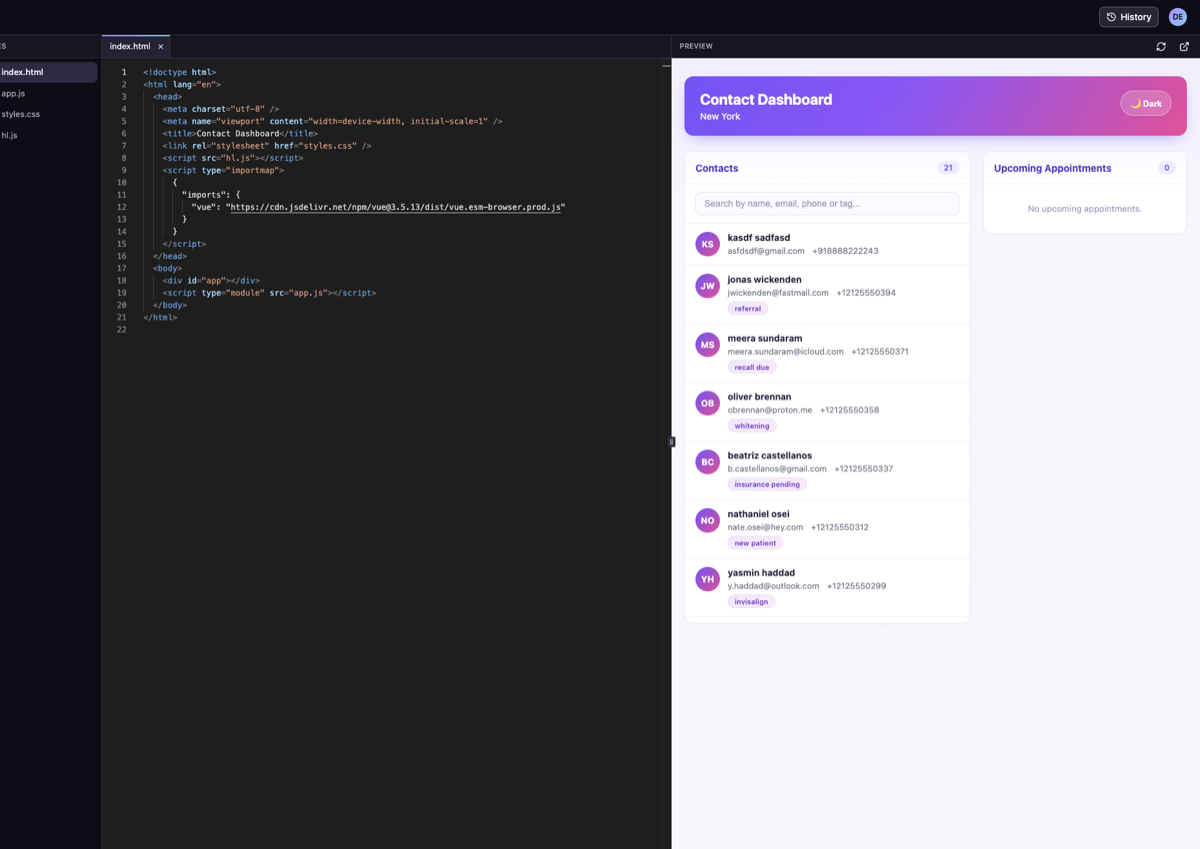
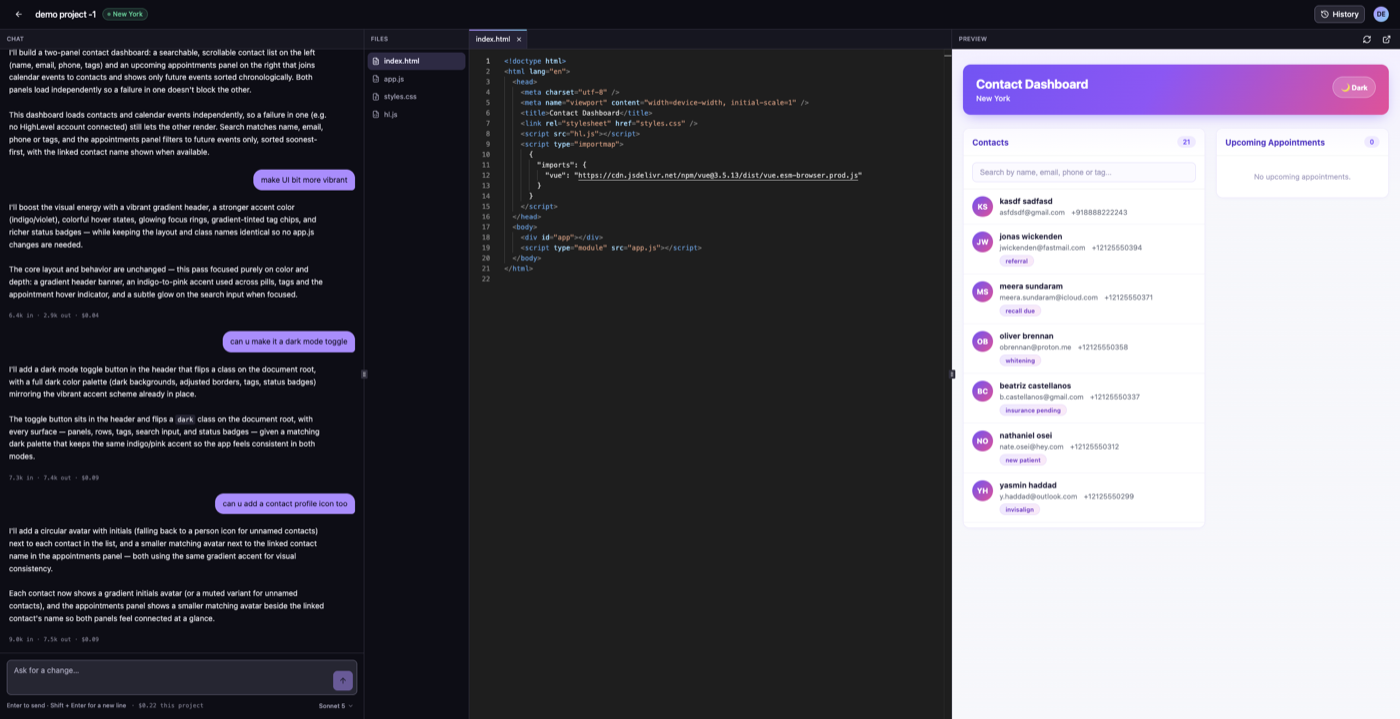
Show the Genesis screenshot uncropped
object-cover fills the media column by cropping whatever does not fit,
which on a 1.9:1 IDE screenshot in a narrow column meant losing the
live preview panel — the part that proves the generated app runs on
real data. Shrinking the copy helped but could not fix the mismatch.

Added Project.mediaFit. "contain" opts a card out of cropping and
stacks the image full-bleed above the copy, so the frame gets the whole
1180px card width instead of 46% of it; the chat, editor and preview
are all legible. The badge moves to the bottom on stacked cards to keep
the app's own title bar readable. Cards without the field are untouched
and still crop to fill.

diff --git a/src/components/Operations.tsx b/src/components/Operations.tsx
@@ -96,27 +96,45 @@ function FeatureCard({ p }: { p: Project }) {
 }
 
 function MediaCard({ p }: { p: Project }) {
+  // "contain" screenshots must not be cropped, so they get the full card width
+  // stacked above the copy rather than a narrow side column that letterboxes them.
+  const stacked = p.mediaFit === "contain";
+
   return (
     <article
       onMouseMove={trackGlow}
-      className="clip-corner group relative col-span-full flex flex-col overflow-hidden border border-border bg-surface transition-all duration-300 ease-tactical hover:-translate-y-1 hover:border-border-hi md:flex-row"
+      className={`clip-corner group relative col-span-full flex flex-col overflow-hidden border border-border bg-surface transition-all duration-300 ease-tactical hover:-translate-y-1 hover:border-border-hi ${
+        stacked ? "" : "md:flex-row"
+      }`}
     >
-      <div className="relative overflow-hidden border-b border-border md:w-[46%] md:border-b-0 md:border-r">
+      <div
+        className={`relative overflow-hidden border-b border-border ${
+          stacked ? "bg-bg-2" : "md:w-[46%] md:border-b-0 md:border-r"
+        }`}
+      >
         <img
           src={p.media}
           alt={`${p.title} — preview`}
           loading="lazy"
           width={1200}
           height={703}
-          className="h-full max-h-[260px] w-full object-cover transition-transform duration-500 ease-tactical group-hover:scale-105 md:max-h-none"
+          className={
+            stacked
+              ? "block w-full object-contain"
+              : "h-full max-h-[260px] w-full object-cover transition-transform duration-500 ease-tactical group-hover:scale-105 md:max-h-none"
+          }
         />
         {p.mediaTag && (
-          <span className="absolute left-3 top-3 border border-accent bg-bg/70 px-2 py-1 font-mono text-[0.6rem] tracking-widest text-accent backdrop-blur-sm">
+          <span
+            className={`absolute left-3 border border-accent bg-bg/70 px-2 py-1 font-mono text-[0.6rem] tracking-widest text-accent backdrop-blur-sm ${
+              stacked ? "bottom-3" : "top-3"
+            }`}
+          >
             {p.mediaTag}
           </span>
         )}
       </div>
-      <div className="relative z-10 self-center p-6">
+      <div className={`relative z-10 p-6 ${stacked ? "w-full" : "self-center"}`}>
         <span className="mb-2 block font-mono text-[0.66rem] tracking-widest text-accent">{p.kicker}</span>
         <h3 className="mb-3 flex flex-wrap items-center gap-2 text-[clamp(1.2rem,2.4vw,1.6rem)]">
           {p.title}

diff --git a/src/data.ts b/src/data.ts
@@ -159,6 +159,8 @@ export interface Project {
   metrics?: Metric[];
   /** Short status caveat shown under the description (e.g. a demo that is partly offline). */
   note?: string;
+  /** How `media` fills its column. "contain" shows the whole frame uncropped; defaults to "cover". */
+  mediaFit?: "cover" | "contain";
 }
 
 /**
@@ -174,6 +176,7 @@ export const projects: Project[] = [
     stack: ["TypeScript", "Vue 3", "Claude API", "SSE", "Cloud Functions", "Firestore", "Monaco", "OAuth 2.0"],
     variant: "media",
     media: "/genesis.png",
+    mediaFit: "contain",
     mediaTag: "LIVE · AI",
     repo: "https://github.com/jason-bourne-gg/genesis-highlevel-app-builder",
     live: "https://genesysbe-cbd7e.web.app",
